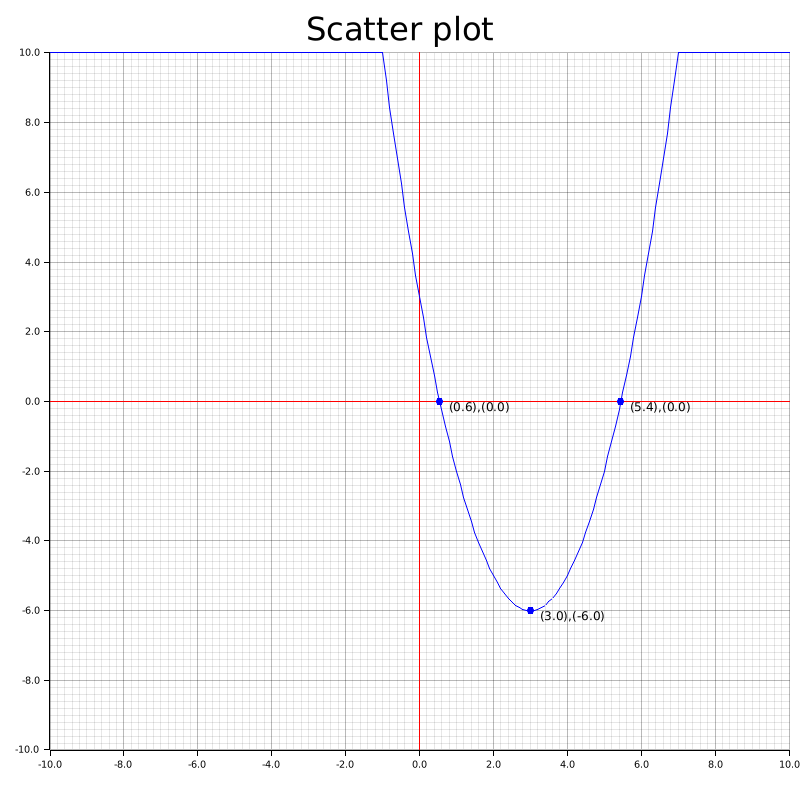
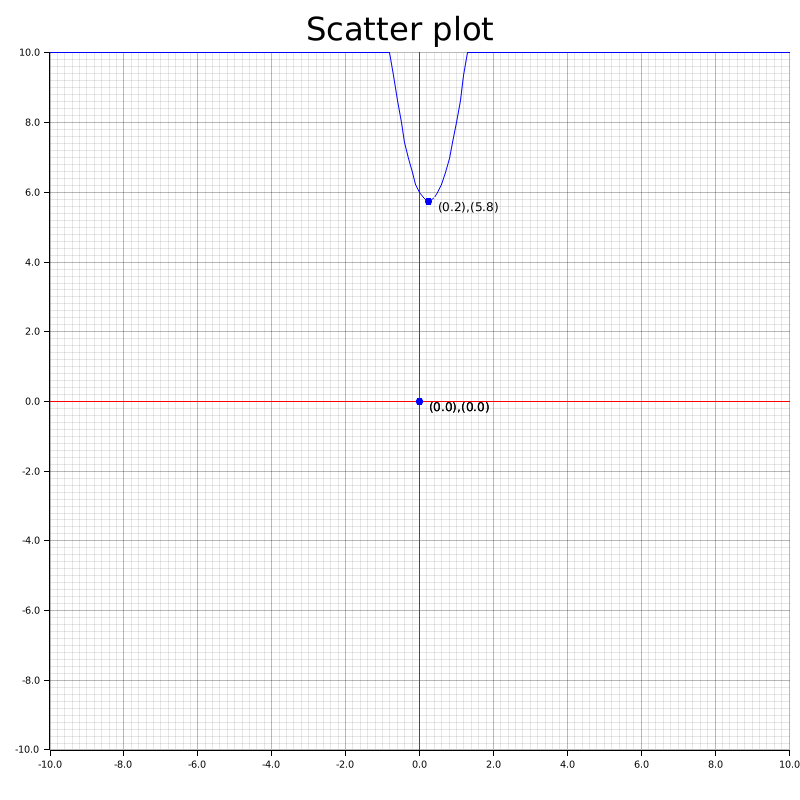
fix: vertex count

diff --git a/src/calc_vertex.rs b/src/calc_vertex.rs
@@ -3,7 +3,8 @@ pub fn main(terms: [f64; 3]) -> (f64, f64) {
     let b = terms[1];
     let c = terms[2];
 
-    let vertex_x: f64 = -b / 2.0 * a;
-    let vertex_y: f64 = vertex_x * vertex_x + b * vertex_x + c;
+    let vertex_x: f64 = -b / (2.0 * a);
+    let vertex_y: f64 = (a * (vertex_x * vertex_x)) + (b * vertex_x) + c;
+    println!("vertex_x: {}, vertex_y: {}", vertex_x, vertex_y);
     return (vertex_x, vertex_y);
 }
